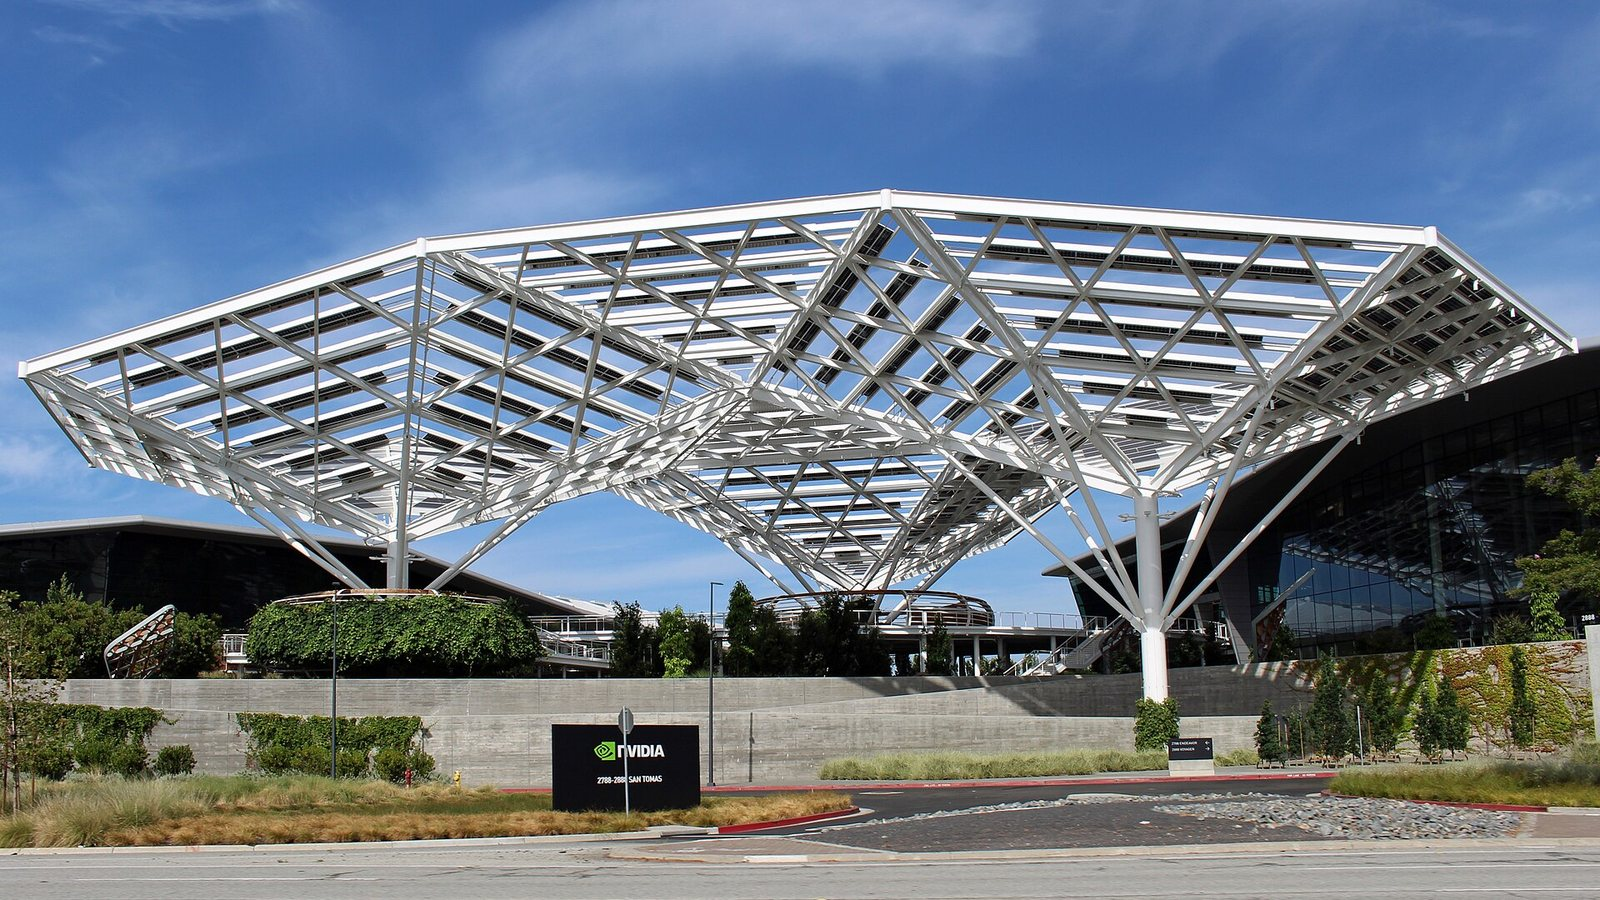
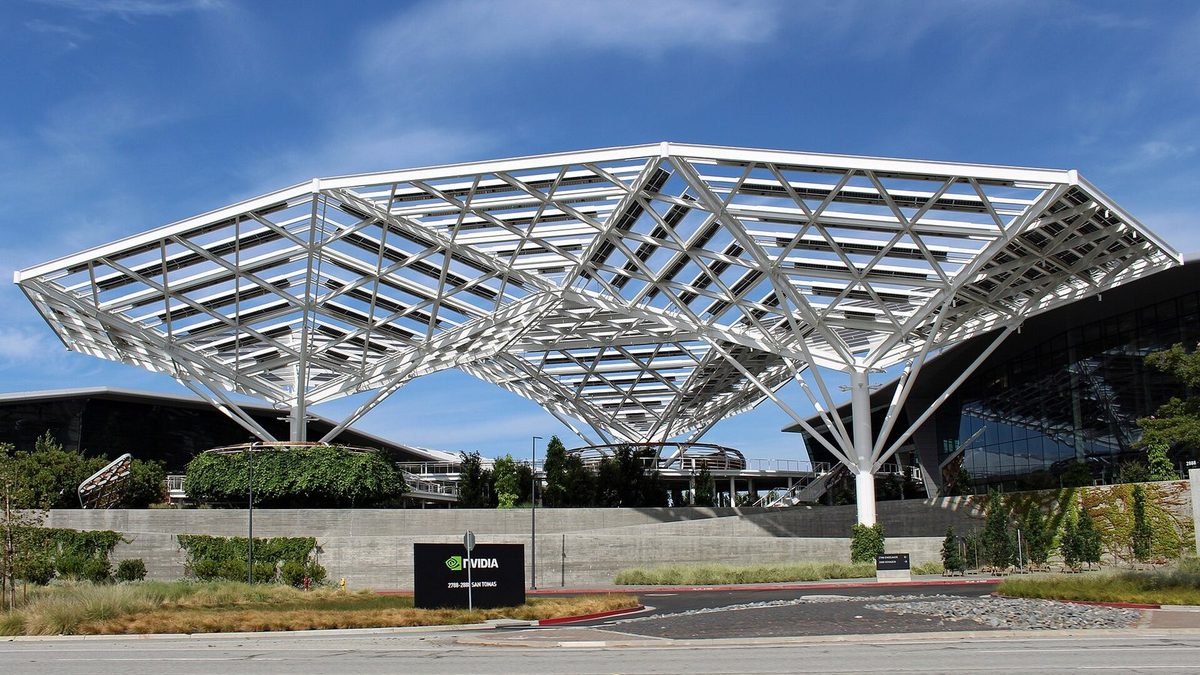
Nvidia-Wochenend-Analyse: Aufmacher Nvidia-Zentrale (Commons)
Claude-Session: https://claude.ai/code/session_01AtTL9pHGwGCQdsQpS8w9bU

diff --git a/content/magazin/79738889_2026-11-10/9640_2140-nvidia-huang-ruecktritt-wochenend-analyse.md b/content/magazin/79738889_2026-11-10/9640_2140-nvidia-huang-ruecktritt-wochenend-analyse.md
@@ -11,11 +11,11 @@ logo_name: "Nvidia"
 logo_file: assets/logos/nvda.png
 story_portrait: assets/magazin/colette-kress-nvidia.png
 story_quote_by: "Colette Kress | Interims-CEO Nvidia"
-image: assets/magazin/nvidia-huang-untersuchung-foto.jpg
-image_alt: "Nvidia-Chef Jensen Huang gestikuliert beim Gespräch vor einer Wand mit Nvidia- und CES-Logos"
-image_credit: "Maurizio Pesce, CC BY 2.0"
-image_source: "https://commons.wikimedia.org/wiki/File:Nvidia_CEO_Jensen_Huang_gestikuliert.jpg"
 story_text: "Nvidia-Gründer Jensen Huang ist nach zwei Affären mit sofortiger Wirkung zurückgetreten. Finanzchefin Colette Kress führt das Unternehmen kommissarisch, Harvey C. Jones wird erster Vorsitzender des Verwaltungsrats.\nDie Aktie verlor vorbörslich rund 11 %. Belegt ist die Affäre, die Spionagevorwürfe stammen aus Aussagen der US-Regierung und sind nicht bewiesen. Offen ist, wer dauerhaft folgt.\nAm 17. November legt Nvidia Zahlen vor. Sie zeigen, ob das Geschäft ohne den Gründer an der Spitze weiterläuft."
+image: assets/magazin/nvidia-huang-ruecktritt-wochenend-analyse-foto.jpg
+image_alt: "Zentrale von Nvidia in Santa Clara mit dem weißen Stahldach über dem Eingang und dem Firmenschild an der San Tomas Expressway"
+image_credit: "Foto: Coolcaesar / Wikimedia Commons, CC BY-SA 4.0"
+image_source: https://commons.wikimedia.org/wiki/File:2788-2888_San_Tomas_Expwy.jpg
 ---
 <!-- PRÜFEN: Stand des Textes ist Donnerstag, 12. November 2026, gegen 15 Uhr. Bis zur Veröffentlichung am Wochenende bitte neu prüfen: Aktienkurs, Anhörung im Kongress, Ergebnis der Untersuchung, Äußerungen von Huang, Kursziele der Analysten. -->
 <!-- PRÜFEN: Zahlentermin 17. November 2026 (Q3 FY27, Quartalsende 25. Oktober) stammt aus einem Fachportal (PPC Land), nicht aus einer Nvidia-Mitteilung. Bitte gegen die Nvidia-Termine prüfen. -->
